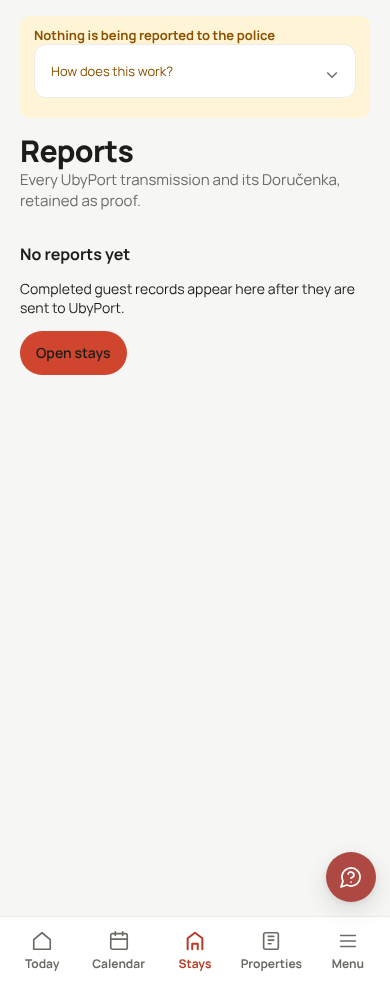
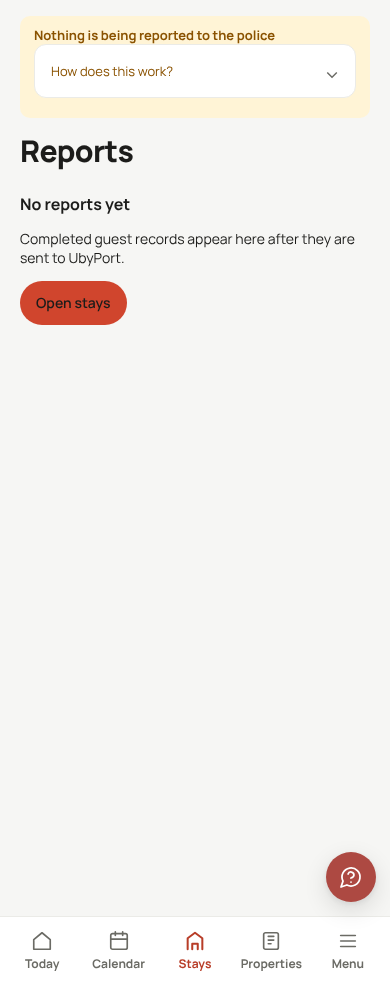
0798 part 1: fine print moved under help on the records pages, cache keys, catalog
Claude-Session: https://claude.ai/code/session_01Cjmb7N9LubzrXaYD5UMxm2

diff --git a/App/app/templates/stay_fees.html b/App/app/templates/stay_fees.html
@@ -18,6 +18,7 @@
 <details class="ui-how stays-how ph-hide" data-how="stay_fees">
   <summary class="ui-how-toggle">{{ icon('circle-help', 16) }}<span>{{ t('how.toggle') }}</span>{{ icon('chevron-down', 16, 'ui-how-chevron') }}</summary>
   <div class="ui-how-body">
+    <p id="fee-list-email">{{ t('stay_fees.list.email_on' if stay_fee_emails else 'stay_fees.list.email_off') }}</p>
     <ol class="ui-how-steps">{% for n in (1, 2, 3) %}<li>{{ t('how.stay_fees.' ~ n) }}</li>{% endfor %}</ol>
     <a class="ui-how-more" href="/guide#stay_fee">{{ t('how.more') }}</a>
   </div>
@@ -92,7 +93,7 @@
         {% if period.pay_total_czk != 0 %}
         <li>
           <strong>{{ t('stay_fees.pay.task_pay') }}</strong>
-          {% if period.pay and period.pay.qr %}<p class="sub">{{ t('stay_fees.payment.qr_help', amount=period.pay_total_display) }}</p>{% endif %}
+          
         </li>
         {% endif %}
       </ol>
@@ -115,7 +116,6 @@
   </div>
 </section>
 {% endfor %}
-<p class="sub" id="fee-list-email">{{ t('stay_fees.list.email_on' if stay_fee_emails else 'stay_fees.list.email_off') }}</p>
 {% set fee_list = namespace(all_unset=true) %}
 {% for period in periods %}{% if not period.unset %}{% set fee_list.all_unset = false %}{% endif %}{% endfor %}
 <div class="card stays-desk fee-periods{% if fee_list.all_unset %} fee-periods-unset{% endif %}">
@@ -150,14 +150,14 @@
         </td>
         {% if fee_list.all_unset %}
         <td data-label="{{ t('filter.status') }}"><span class="pill p-n">{{ t('stay_fees.status.not_setup') }}</span></td>
-        <td class="nowrap row-actions" data-label=""><a class="btn small" href="{{ fee_settings_url(apartment.id, fee_return) }}">{{ t('stay_fees.setup.action') }}</a></td>
+        <td class="nowrap row-actions" data-label=""><a class="btn sm" href="{{ fee_settings_url(apartment.id, fee_return) }}">{{ t('stay_fees.setup.action') }}</a></td>
         {% else %}
         <td data-label="{{ t('stay_fees.col.period') }}">—</td>
         <td class="num" data-label="{{ t('stay_fees.col.liable') }}">—</td>
         <td class="num" data-label="{{ t('stay_fees.col.exempt') }}">—</td>
         <td class="num" data-label="{{ t('stay_fees.col.total') }}">—</td>
         <td data-label="{{ t('filter.status') }}"><span class="pill p-n">{{ t('stay_fees.status.not_setup') }}</span></td>
-        <td class="nowrap row-actions" data-label=""><a class="btn small" href="{{ fee_settings_url(apartment.id, fee_return) }}">{{ t('stay_fees.setup.action') }}</a></td>
+        <td class="nowrap row-actions" data-label=""><a class="btn sm" href="{{ fee_settings_url(apartment.id, fee_return) }}">{{ t('stay_fees.setup.action') }}</a></td>
         {% endif %}
       </tr>
       {% else %}

diff --git a/App/app/templates/housebook.html b/App/app/templates/housebook.html
@@ -32,6 +32,9 @@
 <details class="ui-how stays-how ph-hide" data-how="housebook">
   <summary class="ui-how-toggle">{{ icon('circle-help', 16) }}<span>{{ t('how.toggle') }}</span>{{ icon('chevron-down', 16, 'ui-how-chevron') }}</summary>
   <div class="ui-how-body">
+    <p>{{ t('housebook.archived_lede') }}</p>
+    <p>{{ t('housebook.pdf_export_help') }}</p>
+    <p class="housebook-pdf-warn">{{ t('housebook.pdf_hint', limit=max_inspection_pdfs) }}</p>
     <ol class="ui-how-steps">{% for n in (1, 2, 3) %}<li>{{ t('how.housebook.' ~ n) }}</li>{% endfor %}</ol>
     <a class="ui-how-more" href="/guide#housebook">{{ t('how.more') }}</a>
   </div>
@@ -140,7 +143,6 @@
 
 {% if archived_rows %}
 <h2 class="ph-hide">{{ t('housebook.archived_title') }}</h2>
-<p class="ui-sub ph-hide">{{ t('housebook.archived_lede') }}</p>
 <div class="panel tight scroll-x ph-hide">
   <table class="table-cards">
     <thead>
@@ -165,13 +167,10 @@
 </div>
 {% endif %}
 
-<p class="ui-sub ph-hide"><a href="/guide#housebook">{{ t('nav.guide') }}</a></p>
 
 <dialog id="housebook-pdf-dialog" class="csv-export-dialog">
   <form id="housebook-pdf-form" method="get" action="/housebook/pdfs.zip">
     <h2>{{ t('housebook.pdf_export_title') }}</h2>
-    <p class="ui-sub">{{ t('housebook.pdf_export_help') }}</p>
-    <p class="ui-sub housebook-pdf-warn">{{ t('housebook.pdf_hint', limit=max_inspection_pdfs) }}</p>
     <div class="ui-field">
       <label for="pdf_export_apartment">{{ t('housebook.apartment') }}</label>
       <select id="pdf_export_apartment" name="apartment">

diff --git a/App/app/templates/base.html b/App/app/templates/base.html
@@ -18,17 +18,17 @@
   <link rel="preload" href="/static/fonts/Manrope-latin.woff2?v=20261101-0495" as="font" type="font/woff2" crossorigin>
   {% if v2 | default(false) %}
   <link rel="stylesheet" href="/static/tokens.css?v=20261101-0495">
-  <link rel="stylesheet" href="/static/app2.css?v=20261102-0743">
+  <link rel="stylesheet" href="/static/app2.css?v=20261102-0798">
   {% else %}
   <link rel="stylesheet" href="/static/tokens.css?v=20261101-0495">
   <link rel="stylesheet" href="/static/app.css?v=20261027-signup-wrap">
   <link rel="stylesheet" href="/static/components.css?v=20261014-0102c">
   {% if show_nav | default(true) %}
-  <link rel="stylesheet" href="/static/host.css?v=20261101-0531g">
+  <link rel="stylesheet" href="/static/host.css?v=20261102-0799">
   <link rel="stylesheet" href="/static/host-controls.css?v=20261014-0102d">
   <link rel="stylesheet" href="/static/host-design0123.css?v=20261025-0380">
   {% if nav | default('') == 'cleaning' %}<link rel="stylesheet" href="/static/cleaning.css?v=20261024-0291">{% endif %}
-  <link rel="stylesheet" href="/static/host2.css?v=20261102-0630d">
+  <link rel="stylesheet" href="/static/host2.css?v=20261102-0799">
   <link rel="stylesheet" href="/static/workflow.css?v=20261025-0375">
   <link rel="stylesheet" href="/static/wizard.css?v=20261022-0274">
   {% endif %}

diff --git a/App/app/templates/submissions.html b/App/app/templates/submissions.html
@@ -19,12 +19,12 @@
 <details class="ui-how stays-how ph-hide" data-how="reports">
   <summary class="ui-how-toggle">{{ icon('circle-help', 16) }}<span>{{ t('how.toggle') }}</span>{{ icon('chevron-down', 16, 'ui-how-chevron') }}</summary>
   <div class="ui-how-body">
+    <p>{{ t('reports.lede') }}</p>
+    {% if receipt_count %}<p>{{ t('reports.download_receipts_hint') }}</p>{% endif %}
     <ol class="ui-how-steps">{% for n in (1, 2, 3) %}<li>{{ t('how.reports.' ~ n) }}</li>{% endfor %}</ol>
     <a class="ui-how-more" href="/guide#reports">{{ t('how.more') }}</a>
   </div>
 </details>
-<p class="sub">{{ t('reports.lede') }}</p>
-{% if receipt_count %}<p class="sub ph-hide">{{ t('reports.download_receipts_hint') }}</p>{% endif %}
 </div><div class="stays-head-actions"><a class="btn ghost" href="/housebook">{{ t('nav.housebook') }}</a>{% if receipt_count %}<a class="btn ghost" href="/submissions/receipts.zip">{{ icon('download', 16) }}<span>{{ t('reports.download_receipts') }}</span></a>{% endif %}</div></div>
 
 {% if rows %}

diff --git a/docs/tasks/0798-report.md b/docs/tasks/0798-report.md
@@ -1,0 +1,32 @@
+# 0798 report
+
+Status: blocked (steps 1, 2 partly; 4 not done; geometry rules 1-3 not fixed)
+
+## Files changed (uncommitted)
+- App/app/templates/submissions.html, housebook.html, stay_fees.html (copy, rule 6)
+- App/app/templates/base.html (cache key app2.css?v=20261102-0798)
+- docs/tasks/screenshots-0790/*-390.png, *-1280.png for submissions, invoices, housebook, stay-fees (8 files; overwritten)
+
+## Rule 6 (copy)
+- Moved into the page's help body: submissions lede and receipts hint; housebook archived lede and PDF export help and PDF limit warning; stay-fees email status line.
+- Deleted: housebook guide link (duplicate of help "more" link); stay-fees QR help line (repeated the amount shown beside it).
+- Kept, owner to decide: stay-fees summary line under h1 (#fee-list-summary, counts); stay-fees "send to databox" and "period running" sub lines.
+
+## Commands
+1. Browser geometry, 4 pages: 66 passed, 0 skipped (82 s).
+2. Static/lint tests: 6 failed. test_static_versions x2 refuses on stale keys in host.css and host2.css (not touched by me; `--write` not applied). test_design_lint: T3 classes missing from catalog (submissions-page, housebook-page, invoices-page, stay-fees-toolbar, stay-fees-page, fee-pay-h, small). test_host_i18n x3: "no such table: apartment", not investigated.
+3. context_lint: OK.
+
+## Measure (replaces measure.py, which was not written as a file)
+Scratch check ran a copy of the geometry module inside App/tests (deleted after use). Still open at 390/1024/1280/1440:
+- R1: help toggle sits 49 px below the h1 on all four pages.
+- R2: housebook phone card, text 15 px from top edge. Desktop table cells excluded (scroll container).
+- R3: invoices month-step and label touch (gap 0); "Apply filters" and "Cancel" touch the empty-state h2 (gap 0-1).
+- R3: stay-fees "Apply filters" 6-7 px from the h1-class title.
+Rules 1-4 CSS was not applied (app2.css untouched).
+
+## Not done
+Catalog entries (step 4); static-version manifest; screenshots not visually reviewed by me.
+
+## Owner steps left
+Decide on the three kept stay-fees lines. Confirm geometry fixes are wanted in this brief before a new executor run.
